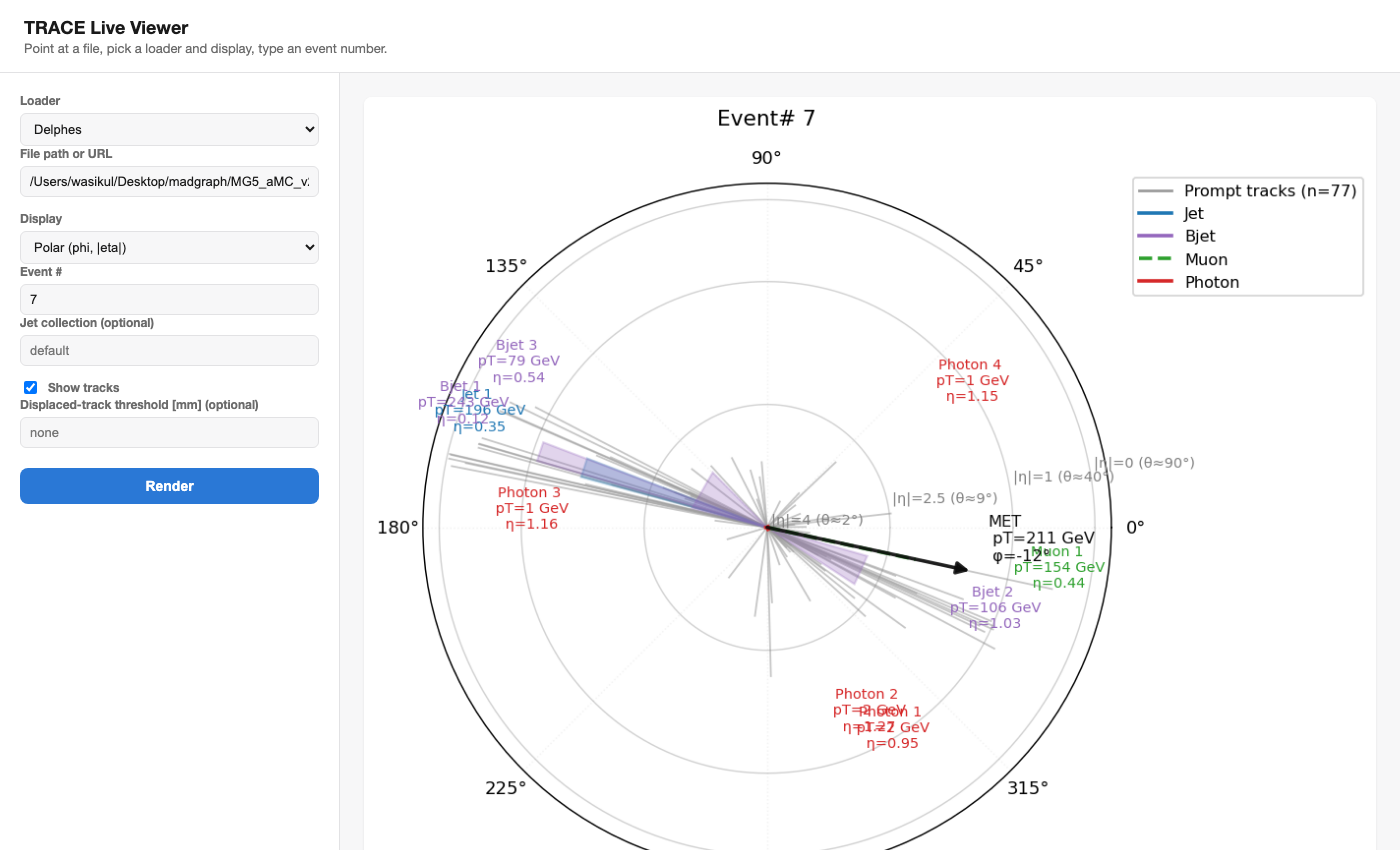
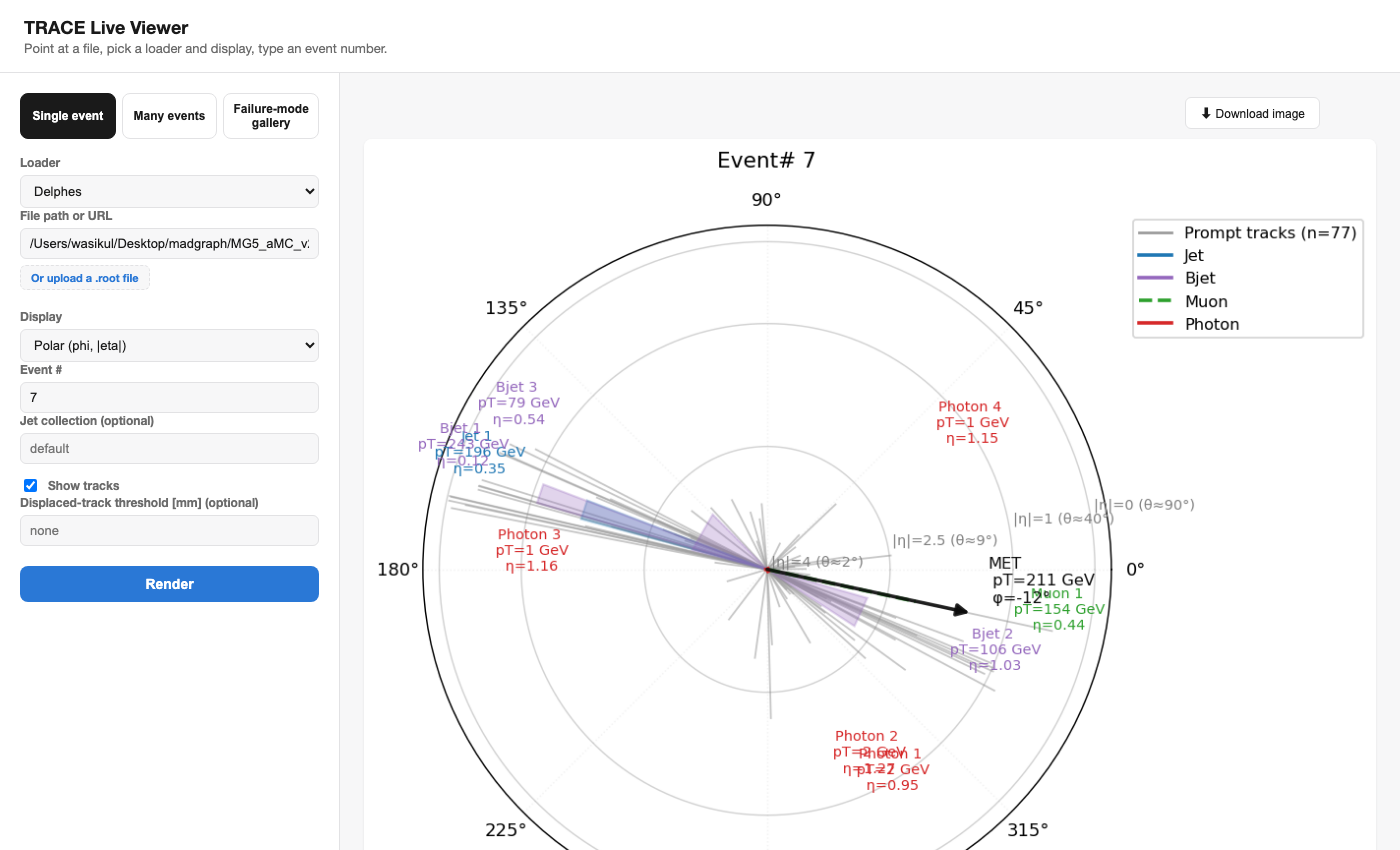
Fix showcase install command and refresh stale trace-gui screenshots
The pip install shown was missing the TestPyPI index flags and the
delphes extra -- it would fail outright for a new user, since trace-hep
isn't on real PyPI yet and [gui] alone lacks uproot. Also regenerated
all six trace-gui screenshots: the old ones predated the "Many events"
mode, so the mode toggle only showed two buttons instead of three.

diff --git a/docs/site/index.html b/docs/site/index.html
@@ -49,8 +49,9 @@
   .btn.ghost { background: var(--surface); color: var(--ink); }
   .btn.ghost:hover { background: var(--bg); text-decoration: none; }
   .install-box {
-    display: inline-flex; align-items: center; gap: 10px; background: #111318; color: #e8e8ea;
-    padding: 10px 16px; border-radius: 8px; font-size: 14px; margin: 0 auto;
+    display: inline-block; text-align: left; background: #111318; color: #e8e8ea;
+    padding: 12px 18px; border-radius: 8px; font-size: 13px; margin: 0 auto;
+    font-family: Menlo, Consolas, monospace; white-space: pre; overflow-x: auto; max-width: 100%;
   }
   .install-box .prompt { color: #6ee7b7; }
 
@@ -148,7 +149,8 @@
       <a class="btn primary" href="#see-it">See it in action</a>
       <a class="btn ghost" href="https://github.com/wasikatcern/TRACE-HEP">View on GitHub</a>
     </div>
-    <div class="install-box"><span class="prompt">$</span> pip install "trace-hep[gui]"</div>
+    <div class="install-box"><span class="prompt">$</span> pip install --index-url https://test.pypi.org/simple/ \
+    --extra-index-url https://pypi.org/simple/ "trace-hep[gui,delphes]"</div>
   </div>
 </section>
 
@@ -249,8 +251,9 @@
     </p>
     <ol class="steps">
       <li>
-        <p>Install the package with the GUI extra:</p>
-        <pre>pip install "trace-hep[gui]"</pre>
+        <p>Install the package (only on TestPyPI for now, so both index flags are needed):</p>
+        <pre>pip install --index-url https://test.pypi.org/simple/ \
+    --extra-index-url https://pypi.org/simple/ "trace-hep[gui,delphes]"</pre>
       </li>
       <li>
         <p>Launch the viewer -- it opens in your browser automatically:</p>
